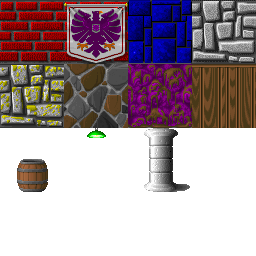
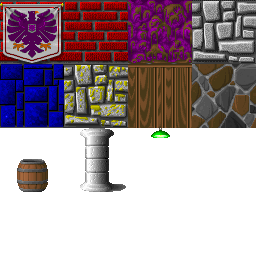
Adjusted texture indices and test map

diff --git a/lib/main.dart b/lib/main.dart
@@ -63,34 +63,34 @@ main() async {
 
   final testLevel = Level(
     [
-      1, 1, 1, 1, 1, 1, 1, 1, 1, 1, 1, 1, 1, 1, 1, 1, 1, 1, 1, 1, 1, 1, 1, 1, //
-      1, 0, 0, 0, 0, 0, 0, 0, 0, 0, 0, 0, 0, 0, 0, 0, 0, 0, 0, 0, 0, 0, 0, 1, //
-      1, 0, 0, 0, 0, 0, 0, 0, 0, 0, 0, 0, 0, 0, 0, 0, 0, 0, 0, 0, 0, 0, 0, 1, //
-      1, 0, 0, 0, 0, 0, 0, 0, 0, 0, 0, 0, 0, 0, 0, 0, 0, 0, 0, 0, 0, 0, 0, 1, //
-      1, 0, 0, 0, 0, 0, 2, 2, 2, 2, 2, 0, 0, 0, 0, 3, 0, 3, 0, 3, 0, 0, 0, 1, //
-      1, 0, 0, 0, 0, 0, 2, 0, 0, 0, 2, 0, 0, 0, 0, 0, 0, 0, 0, 0, 0, 0, 0, 1, //
-      1, 0, 0, 0, 0, 0, 2, 0, 0, 0, 2, 0, 0, 0, 0, 3, 0, 0, 0, 3, 0, 0, 0, 1, //
-      1, 0, 0, 0, 0, 0, 2, 0, 0, 0, 2, 0, 0, 0, 0, 0, 0, 0, 0, 0, 0, 0, 0, 1, //
-      1, 0, 0, 0, 0, 0, 2, 2, 0, 2, 2, 0, 0, 0, 0, 3, 0, 3, 0, 3, 0, 0, 0, 1, //
-      1, 0, 0, 0, 0, 0, 0, 0, 0, 0, 0, 0, 0, 0, 0, 0, 0, 0, 0, 0, 0, 0, 0, 1, //
-      1, 0, 0, 0, 0, 0, 0, 0, 0, 0, 0, 0, 0, 0, 0, 0, 0, 0, 0, 0, 0, 0, 0, 1, //
-      1, 0, 0, 0, 0, 0, 0, 0, 0, 0, 0, 0, 0, 0, 0, 0, 0, 0, 0, 0, 0, 0, 0, 1, //
-      1, 0, 0, 0, 0, 0, 0, 0, 0, 0, 0, 0, 0, 0, 0, 0, 0, 0, 0, 0, 0, 0, 0, 1, //
-      1, 0, 0, 0, 0, 0, 0, 0, 0, 0, 0, 0, 0, 0, 0, 0, 0, 0, 0, 0, 0, 0, 0, 1, //
-      1, 0, 0, 0, 0, 0, 0, 0, 0, 0, 0, 0, 0, 0, 0, 0, 0, 0, 0, 0, 0, 0, 0, 1, //
-      1, 0, 0, 0, 0, 0, 0, 0, 0, 0, 0, 0, 0, 0, 0, 0, 0, 0, 0, 0, 0, 0, 0, 1, //
-      1, 4, 4, 4, 4, 4, 4, 4, 4, 0, 0, 0, 0, 0, 0, 0, 0, 0, 0, 0, 0, 0, 0, 1, //
-      1, 4, 0, 4, 0, 0, 0, 0, 4, 0, 0, 0, 0, 0, 0, 0, 0, 0, 0, 0, 0, 0, 0, 1, //
-      1, 4, 0, 0, 0, 0, 5, 0, 4, 0, 0, 0, 0, 0, 0, 0, 0, 0, 0, 0, 0, 0, 0, 1, //
-      1, 4, 0, 4, 0, 0, 0, 0, 4, 0, 0, 0, 0, 0, 0, 0, 0, 0, 0, 0, 0, 0, 0, 1, //
-      1, 4, 0, 4, 4, 4, 4, 4, 4, 0, 0, 0, 0, 0, 0, 0, 0, 0, 0, 0, 0, 0, 0, 1, //
-      1, 4, 0, 0, 0, 0, 0, 0, 0, 0, 0, 0, 0, 0, 0, 0, 0, 0, 0, 0, 0, 0, 0, 1, //
-      1, 4, 4, 4, 4, 4, 4, 4, 4, 0, 0, 0, 0, 0, 0, 0, 0, 0, 0, 0, 0, 0, 0, 1, //
-      1, 1, 1, 1, 1, 1, 1, 1, 1, 1, 1, 1, 1, 1, 1, 1, 1, 1, 1, 1, 1, 1, 1, 1 //
+      8, 8, 8, 8, 8, 8, 8, 8, 8, 8, 8, 4, 4, 6, 4, 4, 6, 4, 6, 4, 4, 4, 6, 4, //
+      8, 0, 0, 0, 0, 0, 0, 0, 0, 0, 8, 4, 0, 0, 0, 0, 0, 0, 0, 0, 0, 0, 0, 4, //
+      8, 0, 3, 3, 0, 0, 0, 0, 0, 8, 8, 4, 0, 0, 0, 0, 0, 0, 0, 0, 0, 0, 0, 6, //
+      8, 0, 0, 3, 0, 0, 0, 0, 0, 0, 0, 0, 0, 0, 0, 0, 0, 0, 0, 0, 0, 0, 0, 6, //
+      8, 0, 3, 3, 0, 0, 0, 0, 0, 8, 8, 4, 0, 0, 0, 0, 0, 0, 0, 0, 0, 0, 0, 4, //
+      8, 0, 0, 0, 0, 0, 0, 0, 0, 0, 8, 4, 0, 0, 0, 0, 0, 6, 6, 6, 0, 6, 4, 6, //
+      8, 8, 8, 8, 0, 8, 8, 8, 8, 8, 8, 4, 4, 4, 4, 4, 4, 6, 0, 0, 0, 0, 0, 6, //
+      7, 7, 7, 7, 0, 7, 7, 7, 7, 0, 8, 0, 8, 0, 8, 0, 8, 4, 0, 4, 0, 6, 0, 6, //
+      7, 7, 0, 0, 0, 0, 0, 0, 7, 8, 0, 8, 0, 8, 0, 8, 8, 6, 0, 0, 0, 0, 0, 6, //
+      7, 0, 0, 0, 0, 0, 0, 0, 0, 0, 0, 0, 0, 0, 0, 0, 8, 6, 0, 0, 0, 0, 0, 4, //
+      7, 0, 0, 0, 0, 0, 0, 0, 0, 0, 0, 0, 0, 0, 0, 0, 8, 6, 0, 6, 0, 6, 0, 6, //
+      7, 7, 0, 0, 0, 0, 0, 0, 7, 8, 0, 8, 0, 8, 0, 8, 8, 6, 4, 6, 0, 6, 6, 6, //
+      7, 7, 7, 7, 0, 7, 7, 7, 7, 8, 8, 4, 0, 6, 8, 4, 8, 3, 3, 3, 0, 3, 3, 3, //
+      2, 2, 2, 2, 0, 2, 2, 2, 2, 4, 6, 4, 0, 0, 6, 0, 6, 3, 0, 0, 0, 0, 0, 3, //
+      2, 2, 0, 0, 0, 0, 0, 2, 2, 4, 0, 0, 0, 0, 0, 0, 4, 3, 0, 0, 0, 0, 0, 3, //
+      2, 0, 0, 0, 0, 0, 0, 0, 2, 4, 0, 0, 0, 0, 0, 0, 4, 3, 0, 0, 0, 0, 0, 3, //
+      1, 0, 0, 0, 0, 0, 0, 0, 1, 4, 4, 4, 4, 4, 6, 0, 6, 3, 3, 0, 0, 0, 3, 3, //
+      2, 0, 0, 0, 0, 0, 0, 0, 2, 2, 2, 1, 2, 2, 2, 6, 6, 0, 0, 5, 0, 5, 0, 5, //
+      2, 2, 0, 0, 0, 0, 0, 2, 2, 2, 0, 0, 0, 2, 2, 0, 5, 0, 5, 0, 0, 0, 5, 5, //
+      2, 0, 0, 0, 0, 0, 0, 0, 2, 0, 0, 0, 0, 0, 2, 5, 0, 5, 0, 5, 0, 5, 0, 5, //
+      1, 0, 0, 0, 0, 0, 0, 0, 0, 0, 0, 0, 0, 0, 0, 0, 0, 0, 0, 0, 0, 0, 0, 5, //
+      2, 0, 0, 0, 0, 0, 0, 0, 2, 0, 0, 0, 0, 0, 2, 5, 0, 5, 0, 5, 0, 5, 0, 5, //
+      2, 2, 0, 0, 0, 0, 0, 2, 2, 2, 0, 0, 0, 2, 2, 0, 5, 0, 5, 0, 0, 0, 5, 5, //
+      2, 2, 2, 2, 1, 2, 2, 2, 2, 2, 2, 1, 2, 2, 2, 5, 5, 5, 5, 5, 5, 5, 5, 5, //
     ],
     await loadImage('img/wolf3d.png'),
     4,
-    Vector2(22, 12),
+    Vector2(22, 10), // origin the bottom-left of the map array
     Vector2(-1, 0),
   );
 

diff --git a/lib/game.dart b/lib/game.dart
@@ -47,12 +47,14 @@ class Game {
       _moveVec.x = dir.x * move * (forward ? 1 : -1);
       _moveVec.y = dir.y * move * (forward ? 1 : -1);
       _translate(_level.map, pos);
+      print(pos);
     }
 
     if (strafeLeft || strafeRight) {
       _moveVec.x = dir.y * move * (strafeLeft ? 1 : -1);
       _moveVec.y = -dir.x * move * (strafeLeft ? 1 : -1);
       _translate(_level.map, pos);
+      print(pos);
     }
 
     if (rotLeft || rotRight) {
